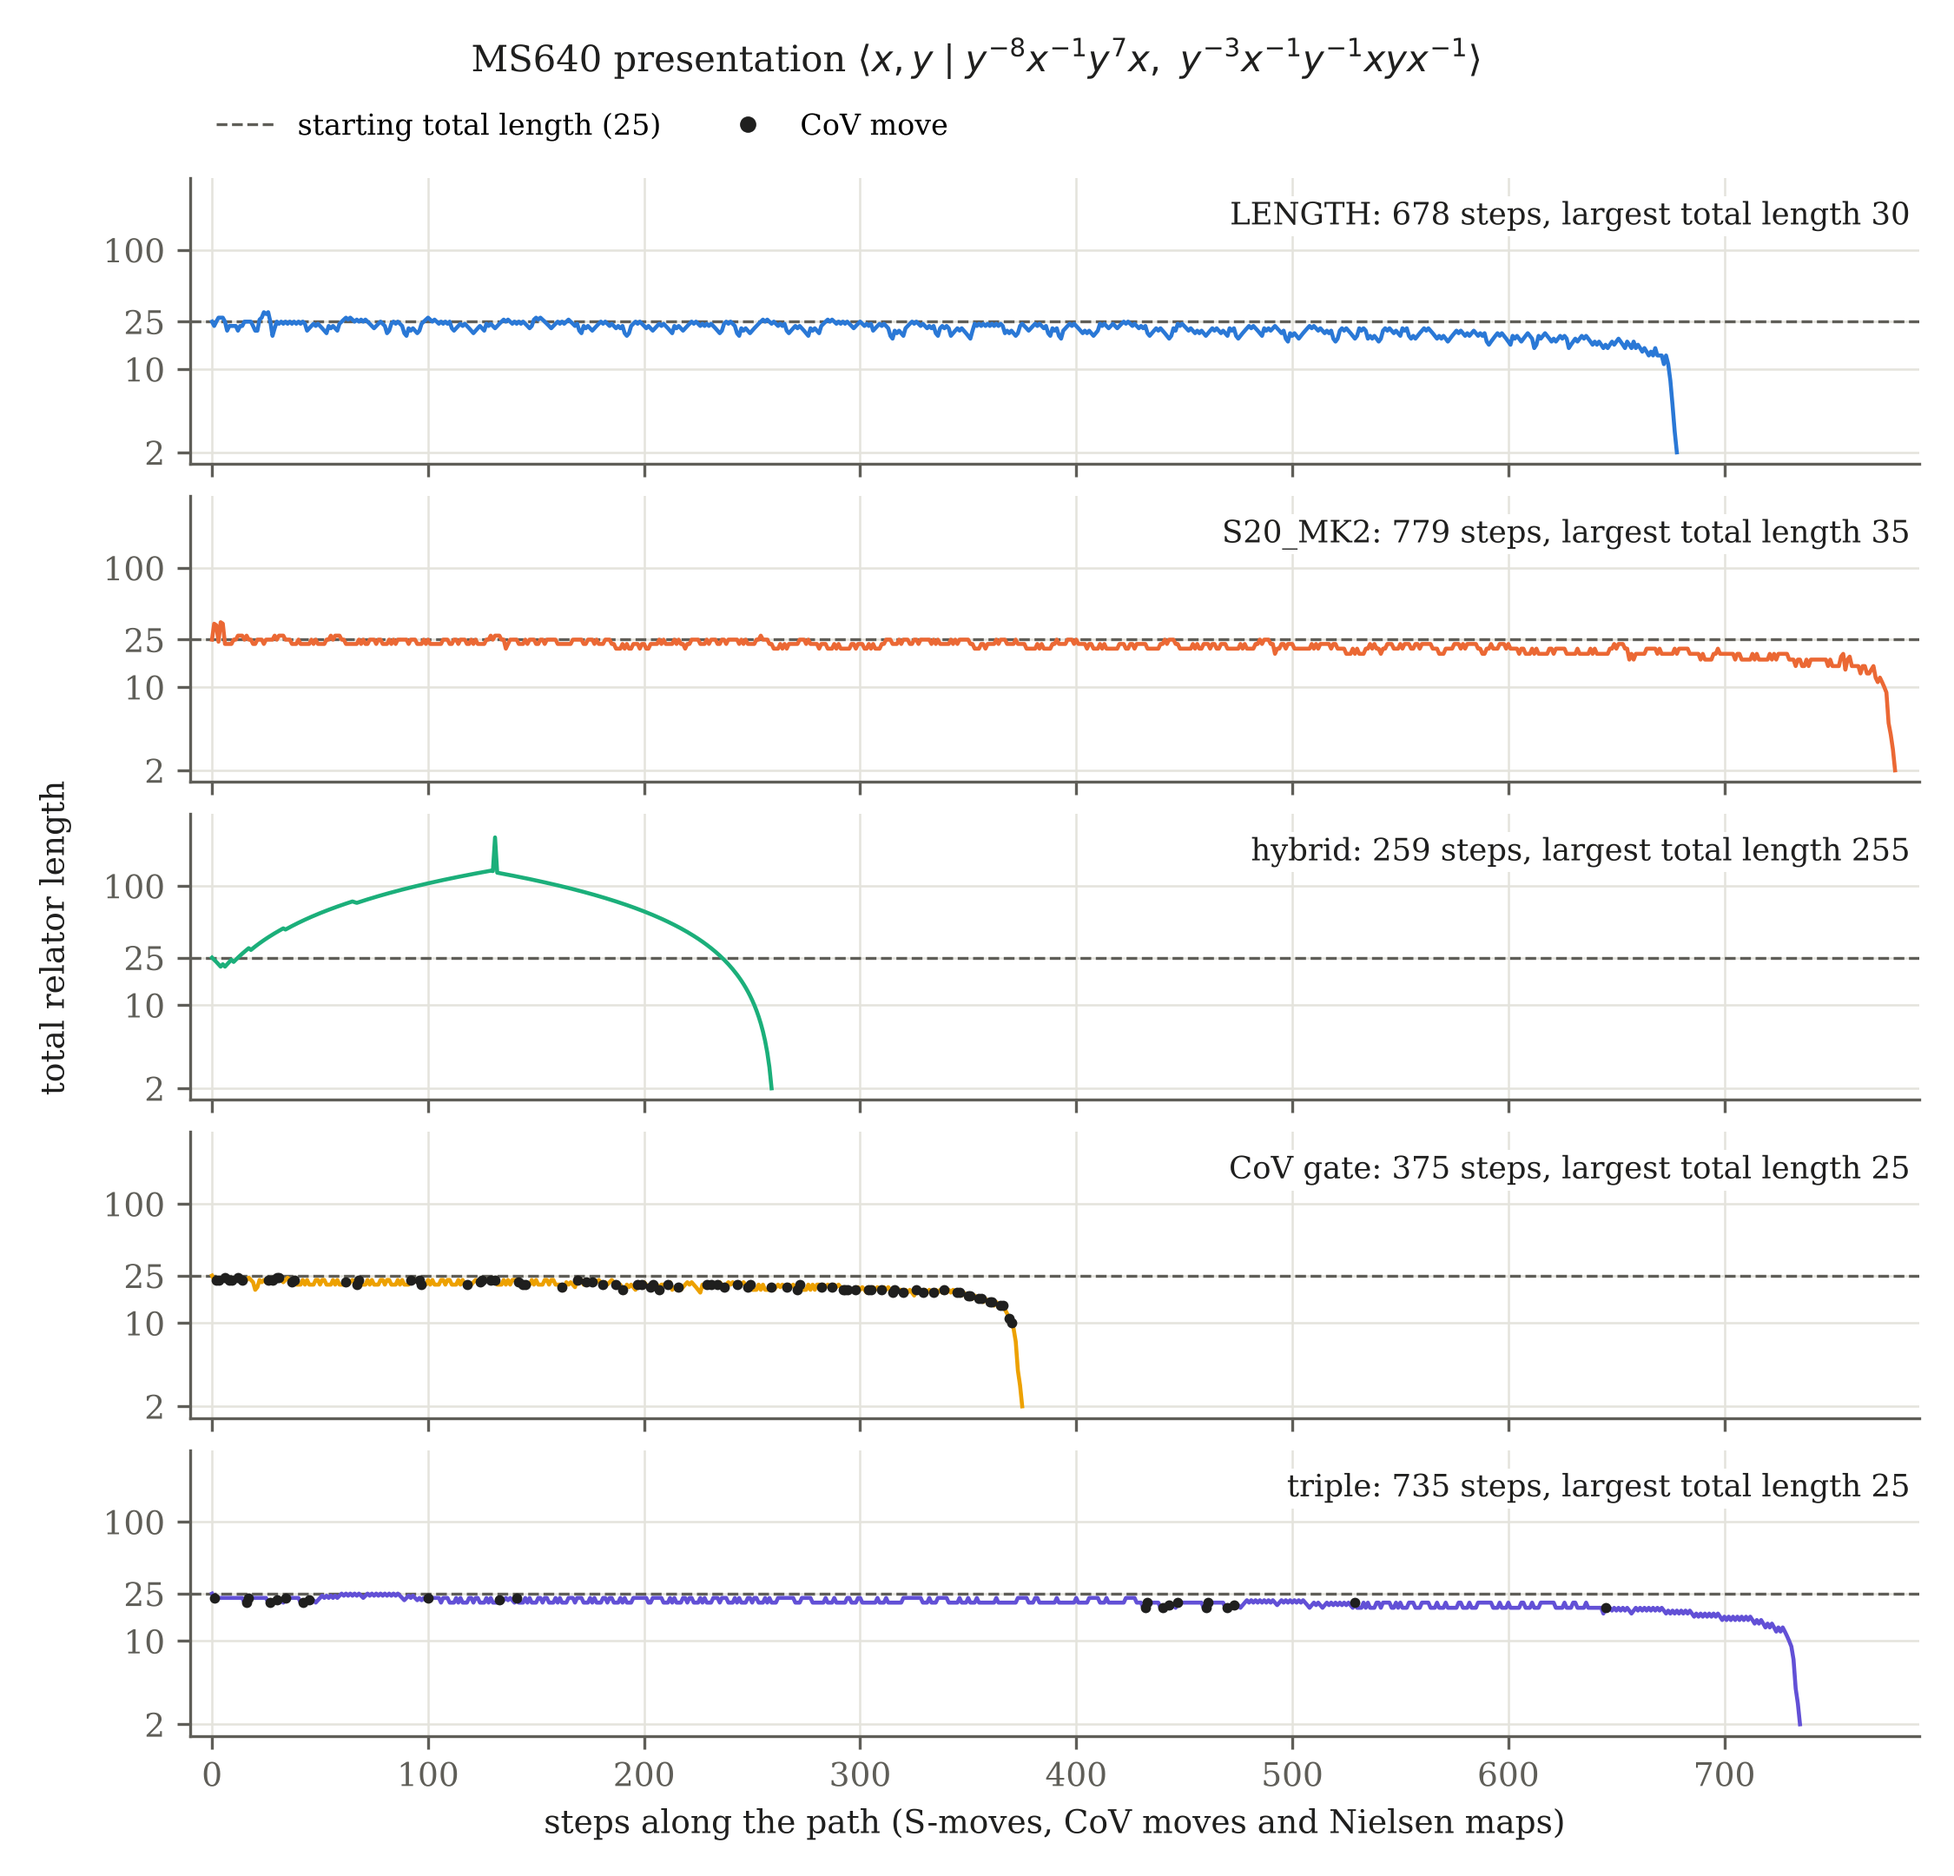
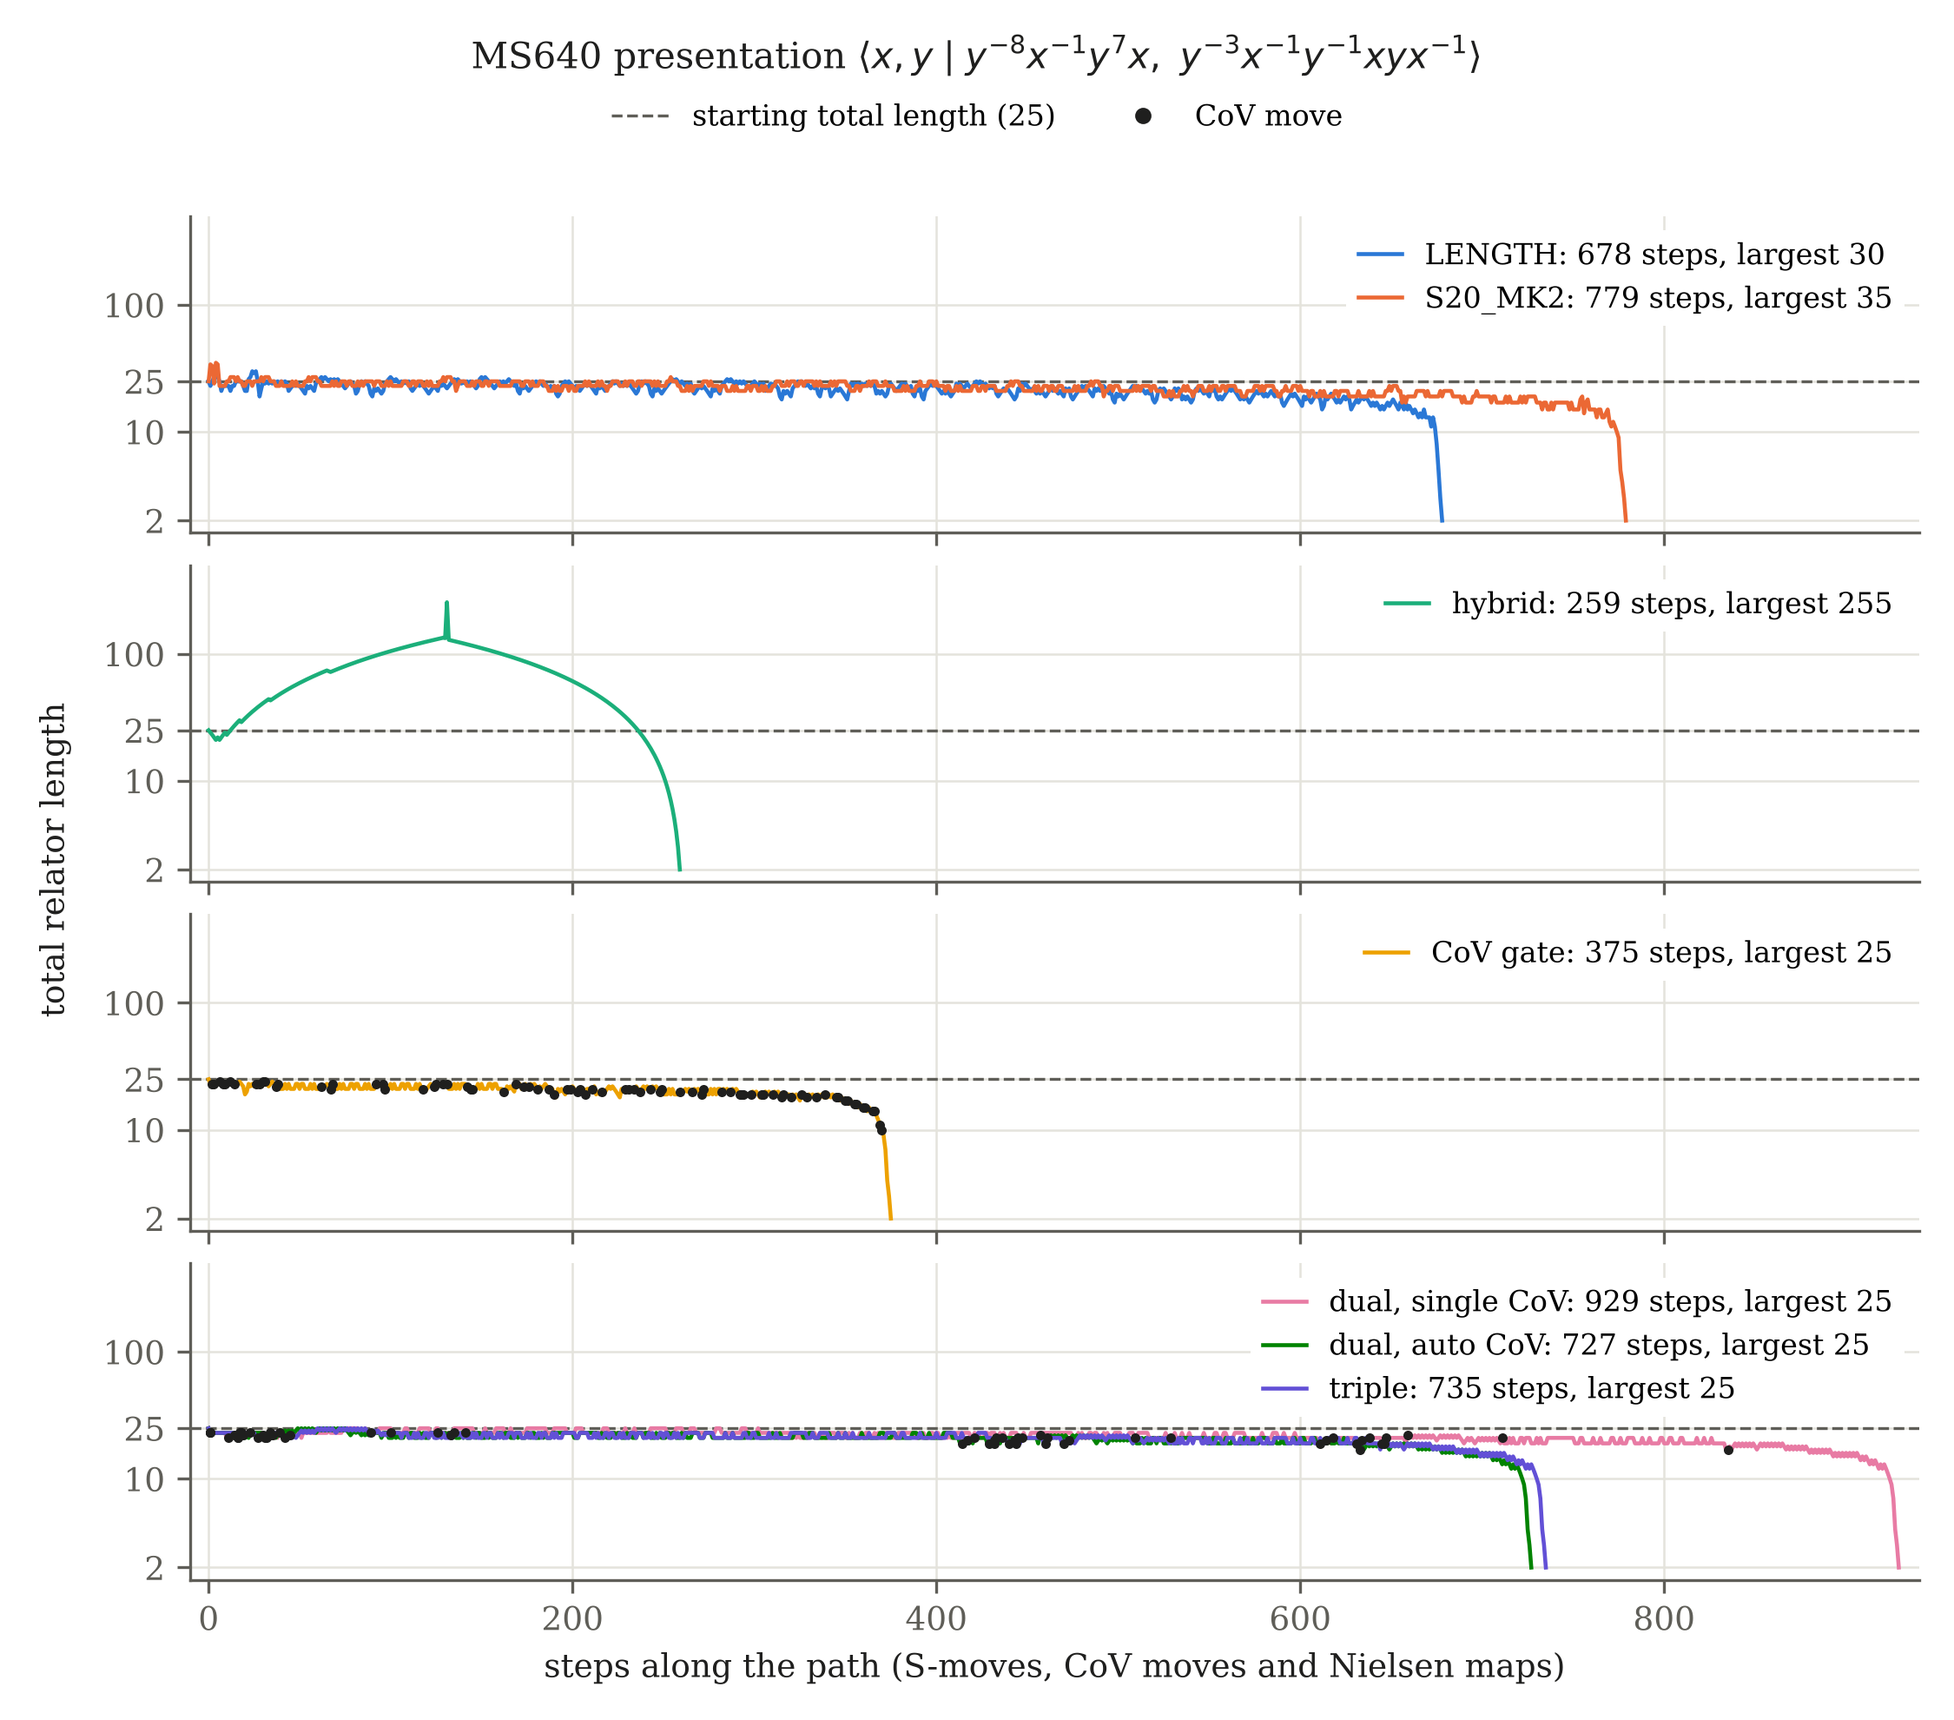
paper: example figure in four panels: greedy pair, hybrid, CoV gate, dual and triple
Claude-Session: https://claude.ai/code/session_01AdAbRuZRQ5MkX3g2nL8FXv

diff --git a/paper/figsrc/maxrel_example.py b/paper/figsrc/maxrel_example.py
@@ -64,25 +64,29 @@ def main():
         if r["id"] == ROW:
             break
     pres = parse_presentation(", ".join(rows[ROW]["pres"]))
-    names = ["LENGTH", "S20_MK2", "hybrid", "CoV gate", "triple"]     # triple: the best of the dual and triple searches
-    colors = {"LENGTH": COLORS[0], "S20_MK2": COLORS[1], "hybrid": COLORS[2], "CoV gate": COLORS[3], "triple": COLORS[6]}
+    groups = [["LENGTH", "S20_MK2"], ["hybrid"], ["CoV gate"], ["dual, single CoV", "dual, auto CoV", "triple"]]
+    names = [m for g in groups for m in g]
+    colors = dict(zip(["LENGTH", "S20_MK2", "hybrid", "CoV gate", "dual, single CoV", "dual, auto CoV", "triple"], COLORS))
     plt.rcParams.update({"font.family": "serif", "font.size": 9, "axes.edgecolor": MUTED, "axes.labelcolor": INK,
                          "xtick.color": MUTED, "ytick.color": MUTED})
     data = {m: series(pres, m, r["paths"][m]) for m in names}
     start = data["LENGTH"][0][0]
     xmax = max(len(ys) for ys, _ in data.values())
-    fig, axes = plt.subplots(len(names), 1, figsize=(7.5, 7.2), sharex=True, sharey=True)
-    for ax, m in zip(axes, names):
-        ys, special = data[m]
+    fig, axes = plt.subplots(len(groups), 1, figsize=(7.5, 6.6), sharex=True, sharey=True)
+    for ax, g in zip(axes, groups):
         ax.axhline(start, color=MUTED, lw=0.8, ls="--", zorder=1)
-        ax.plot(range(len(ys)), ys, color=colors[m], lw=1.1, zorder=2)
-        if m != "hybrid" and special:
-            ax.scatter(special, [ys[i] for i in special], s=8, marker="o", color=INK, linewidth=0, zorder=3)
-        ax.text(0.995, 0.92, f"{m}: {len(ys) - 1} steps, largest total length {max(ys)}", transform=ax.transAxes,
-                ha="right", va="top", fontsize=8.5, color=INK,
-                bbox=dict(boxstyle="square,pad=0.15", facecolor="white", edgecolor="none"))
+        handles, labels = [], []
+        for m in g:
+            ys, special = data[m]
+            h, = ax.plot(range(len(ys)), ys, color=colors[m], lw=1.1, zorder=2)
+            if m != "hybrid" and special:
+                ax.scatter(special, [ys[i] for i in special], s=7, marker="o", color=INK, linewidth=0, zorder=3)
+            handles.append(h)
+            labels.append(f"{m}: {len(ys) - 1} steps, largest {max(ys)}")
+        ax.legend(handles, labels, frameon=True, facecolor="white", edgecolor="none", framealpha=1, fontsize=8,
+                  loc="upper right", handlelength=1.5)
         ax.set_yscale("log")
-        ax.set_ylim(1.6, 400)
+        ax.set_ylim(1.6, 500)
         ax.set_yticks([2, 10, 25, 100])
         ax.set_yticklabels(["2", "10", "25", "100"])
         ax.minorticks_off()
@@ -95,11 +99,12 @@ def main():
     fig.supylabel("total relator length", fontsize=9, color=INK)
     fig.suptitle(r"MS640 presentation $\langle x,y \mid y^{-8}x^{-1}y^{7}x,\ y^{-3}x^{-1}y^{-1}xyx^{-1}\rangle$",
                  fontsize=10, color=INK)
-    axes[0].legend([Line2D([], [], ls="--", color=MUTED, lw=0.8),
-                    Line2D([], [], ls="", marker="o", color=INK, markersize=3.5)],
-                   [f"starting total length ({start})", "CoV move"], frameon=False, fontsize=8, loc="upper left",
-                   ncol=2, bbox_to_anchor=(0, 1.32))
-    fig.tight_layout(h_pad=0.6)
+    axes[0].legend_.set_zorder(5)
+    fig.legend([Line2D([], [], ls="--", color=MUTED, lw=0.8),
+                Line2D([], [], ls="", marker="o", color=INK, markersize=3.5)],
+               [f"starting total length ({start})", "CoV move"], frameon=False, fontsize=8, loc="upper center",
+               ncol=2, bbox_to_anchor=(0.5, 0.955))
+    fig.tight_layout(h_pad=0.6, rect=(0, 0, 1, 0.94))
     out = ROOT / "paper/figures/maxrel_example.png"
     fig.savefig(out, dpi=300)
     print(out)

diff --git a/paper/avi.tex b/paper/avi.tex
@@ -648,9 +648,9 @@ presentations. The horizontal axis is logarithmic.}
 \begin{figure}[ht]
 \centering
 \includegraphics[width=\textwidth]{figures/maxrel_example.png}
-\caption{The total relator length along the solution paths of LENGTH, $\SMK$, the hybrid, the CoV-gate search and
-the triple search on the MS640 presentation $\pres{x,y}{y^{-8}x^{-1}y^7x,\ y^{-3}x^{-1}y^{-1}xyx^{-1}}$, step by step, a
-step being an S-move, a CoV move (black points) or a Nielsen map. Dashed: the total length of the presentation, $25$.
+\caption{The total relator length along the solution paths of the seven methods on the MS640 presentation
+$\pres{x,y}{y^{-8}x^{-1}y^7x,\ y^{-3}x^{-1}y^{-1}xyx^{-1}}$, step by step, from top to bottom: LENGTH and $\SMK$; the
+hybrid; the CoV-gate search; the dual and triple searches. A step is an S-move, a CoV move (black points) or a Nielsen map. Dashed: the total length of the presentation, $25$.
 The vertical axis is logarithmic. Rewritten as AC moves on the original presentation ($2{,}783$ moves), the hybrid's
 path reaches a total relator length of $1{,}014$, with a relator of length $509$.}
 \label{fig:maxrel_example}
